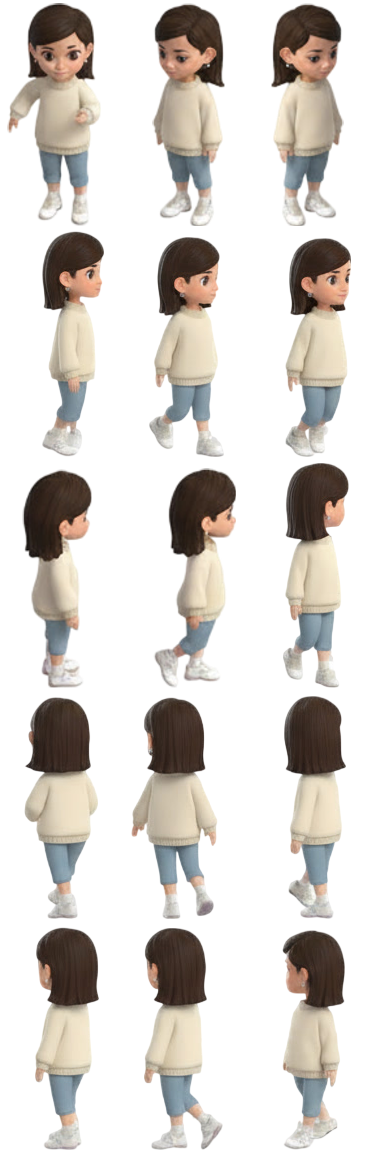
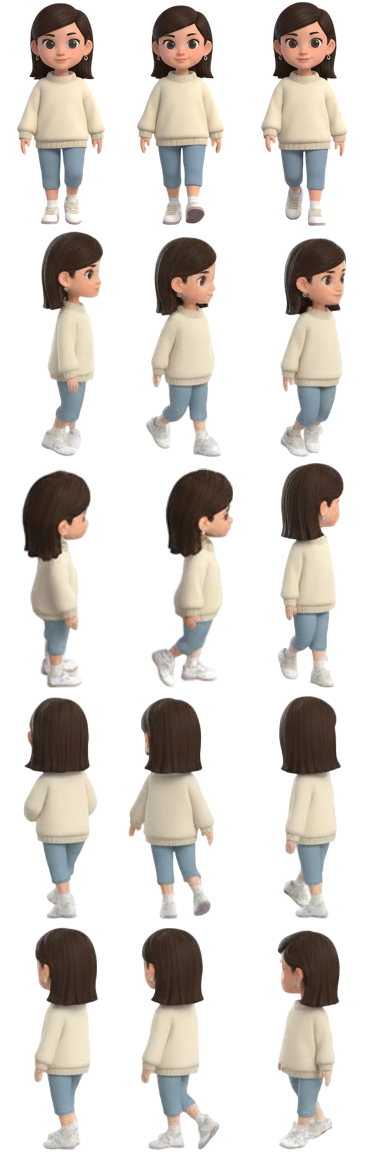
mimi walk fixed

diff --git a/game/entities/mimiWalkAtlas.ts b/game/entities/mimiWalkAtlas.ts
@@ -15,7 +15,7 @@ export type AtlasDirection = keyof typeof ATLAS_ROW;
 export const MIMI_WALK_ATLAS = {
   key: "mimi-walk",
   path: "/assets/game/character/mimi-walk.png",
-  frameWidth: 124,
+  frameWidth: 122,
   frameHeight: 231,
   columns: 3,
   /**
@@ -23,7 +23,7 @@ export const MIMI_WALK_ATLAS = {
    * directions. Player pins its sprite scale to this so Mimi's on-screen size
    * is a property of the art, not of whichever frame happens to be showing.
    */
-  referenceStandingHeight: 222.55,
+  referenceStandingHeight: 222.48,
   /**
    * Transparent gap left below the feet inside each cell. The ground anchor is
    * at (frameWidth / 2, frameHeight - padBottom), which is what the sprite's
